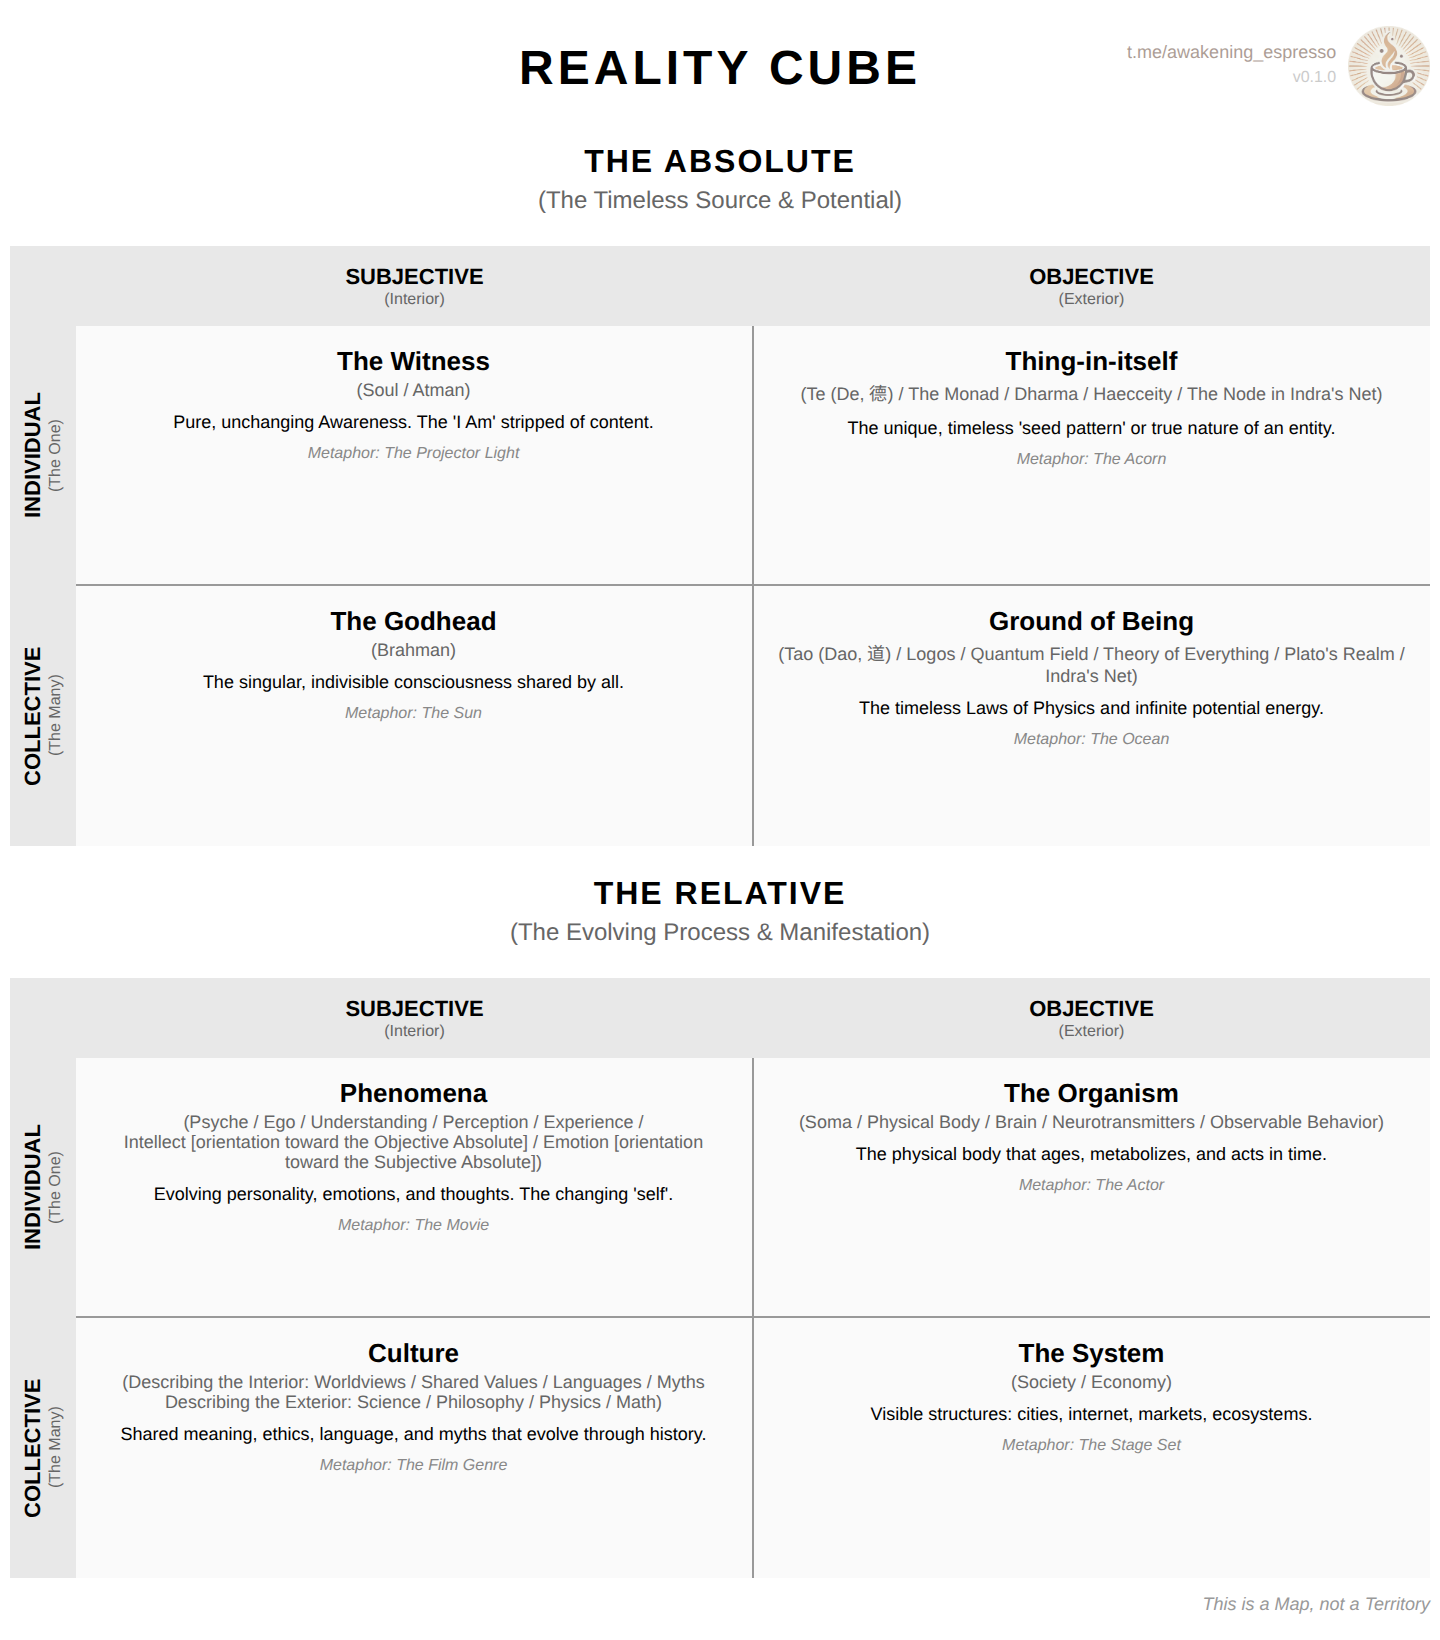
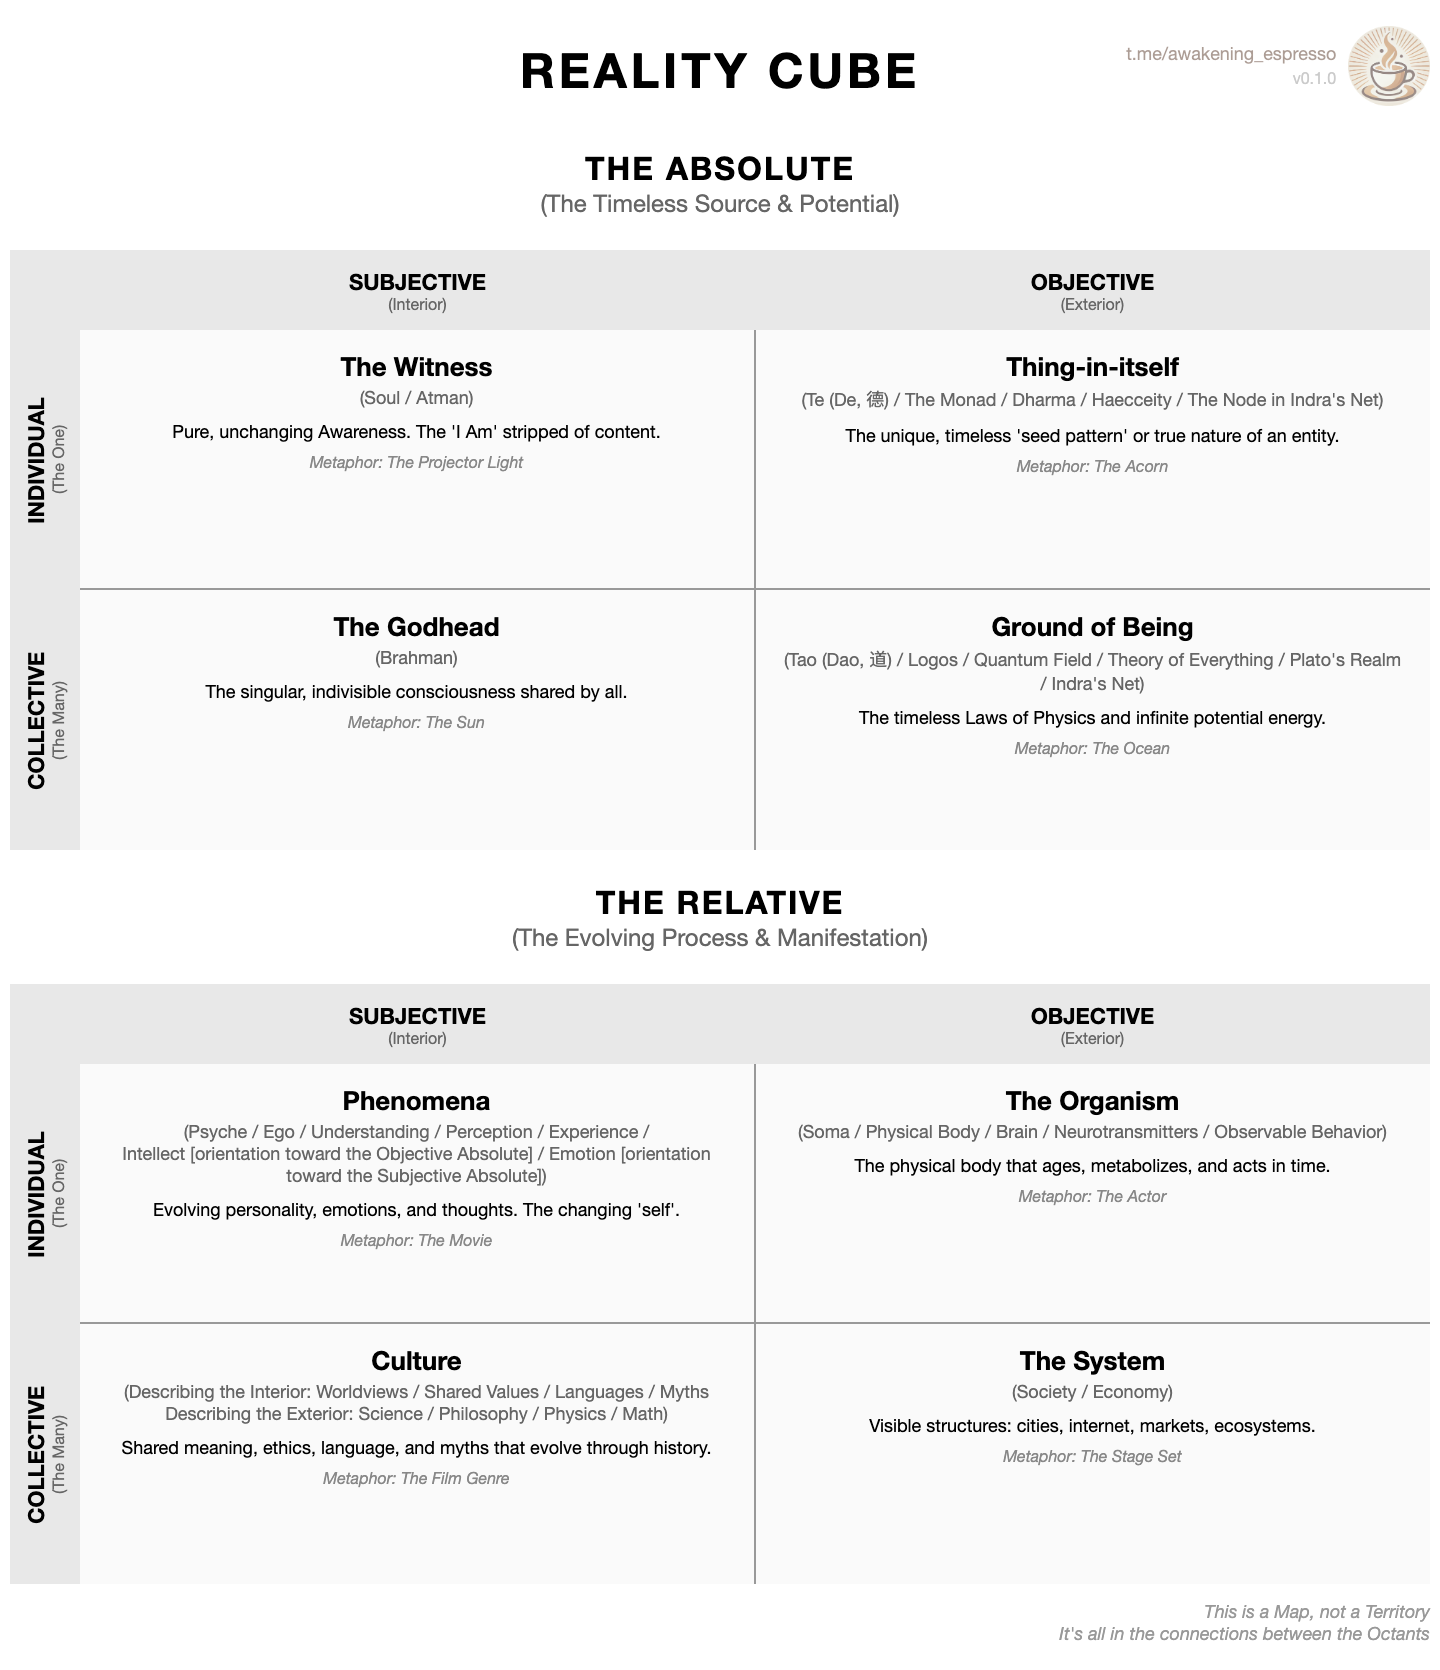
Connections

diff --git a/template.html b/template.html
@@ -96,7 +96,7 @@
 </div>
 {% endfor %}
 
-<div class="footer">This is a Map, not a Territory</div>
+<div class="footer">This is a Map, not a Territory<br>It's all in the connections between the Octants</div>
 
 </body>
 </html>

diff --git a/index.html b/index.html
@@ -114,7 +114,7 @@
 </div>
 
 
-<div class="footer">This is a Map, not a Territory</div>
+<div class="footer">This is a Map, not a Territory<br>It's all in the connections between the Octants</div>
 
 </body>
 </html>
